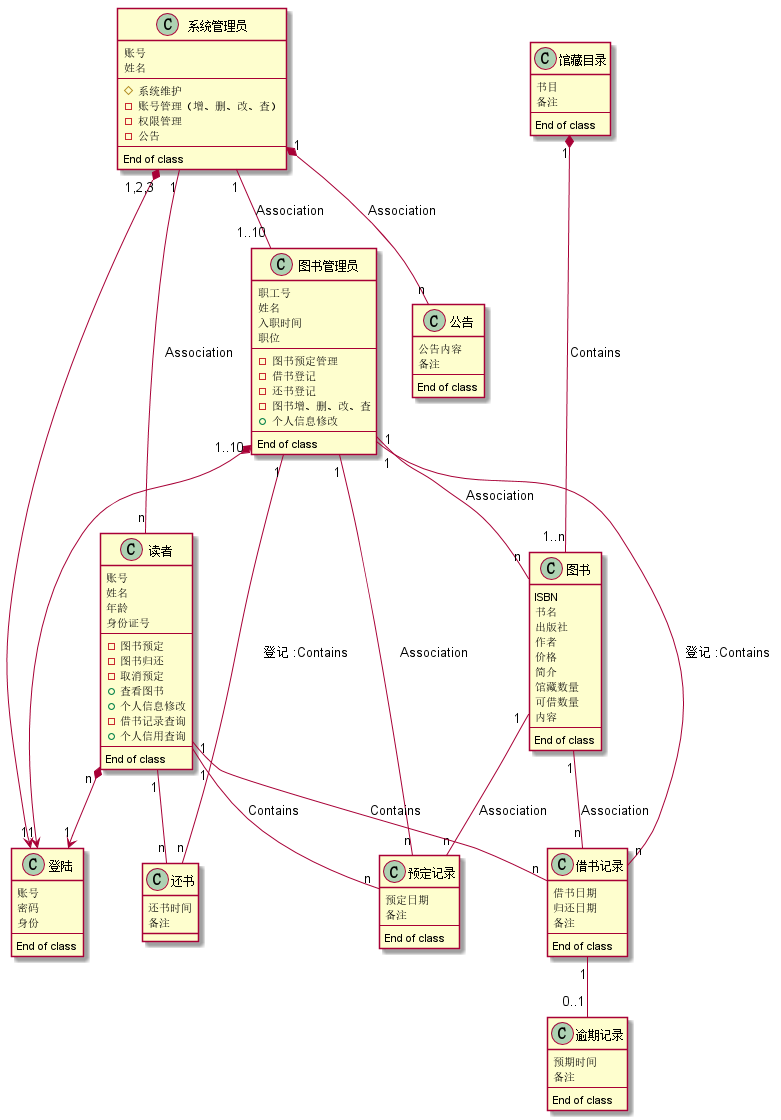
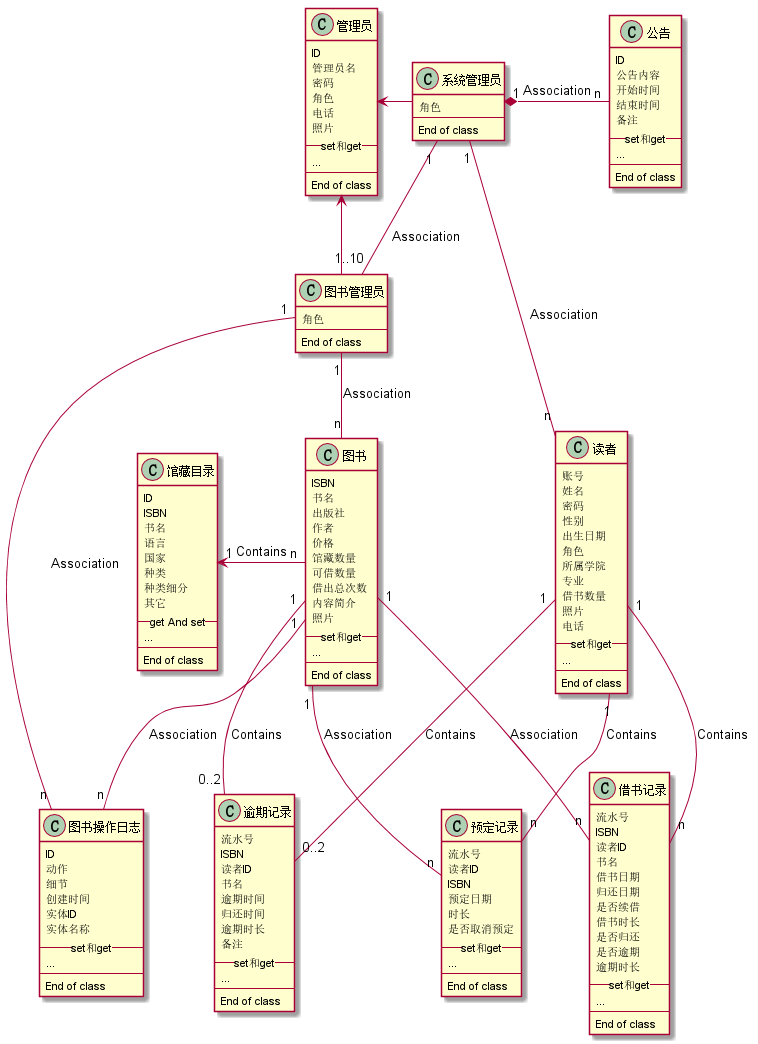
UpdateOfHeng

diff --git a/test3/README.md b/test3/README.md
@@ -9,10 +9,26 @@
 <pre>
 @startuml
 
-class 登陆{
-    账号
+class 管理员 {
+    ID
+    管理员名
     密码
-    身份
+    角色
+    电话
+    照片
+    --set和get--
+    ...
+    --
+    End of class
+}
+
+class 图书管理员 {
+    角色
+    --
+    End of class
+}
+class 系统管理员{
+    角色
     --
     End of class
 }
@@ -20,42 +36,32 @@ class 登陆{
 class 读者 {
     账号
     姓名
-    年龄
-    身份证号
-    --
-    - 图书预定
-    - 图书归还
-    - 取消预定
-    + 查看图书
-    + 个人信息修改
-    - 借书记录查询
-    + 个人信用查询
+    密码
+    性别
+    出生日期
+    角色
+    所属学院
+    专业
+    借书数量
+    照片
+    电话
+    --set和get--
+    ...
     --
     End of class
 }
 
-class 图书管理员 {
-    职工号
-    姓名
-    入职时间
-    职位
-    --
-    - 图书预定管理
-    - 借书登记
-    - 还书登记
-    - 图书增、删、改、查
-    + 个人信息修改
-    --
-    End of class
-}
-class 系统管理员{
-    账号
-    姓名
-    --
-    # 系统维护
-    - 账号管理（增、删、改、查）
-    - 权限管理
-    - 公告
+class 馆藏目录{
+    ID
+    ISBN
+    书名
+    语言
+    国家
+    种类
+    种类细分
+    其它
+    --get And set--
+    ...
     --
     End of class
 }
@@ -65,79 +71,108 @@ class 图书{
     出版社
     作者
     价格
-    简介
     馆藏数量
     可借数量
-    内容
-    --
-    End of class
-}
-
-class 馆藏目录{
-    书目
-    备注
+    借出总次数
+    内容简介
+    照片
+    --set和get--
+    ...
     --
     End of class
 }
 
 class 借书记录{
+    流水号
+    ISBN
+    读者ID
+    书名
     借书日期
     归还日期
-    备注
+    是否续借
+    借书时长
+    是否归还
+    是否逾期
+    逾期时长
+    --set和get--
+    ...
     --
     End of class
 }
 
 class 预定记录{
+    流水号
+    读者ID
+    ISBN
     预定日期
-    备注
+    时长
+    是否取消预定
+    --set和get--
+    ...
     --
     End of class
 }
 
 class 逾期记录{
-    预期时间
+    流水号
+    ISBN
+    读者ID
+    书名
+    逾期时间
+    归还时间
+    逾期时长
     备注
+    --set和get--
+    ...
     --
     End of class
 }
 
-class 还书{
-    还书时间
-    备注
+class 图书操作日志{
+    ID
+    动作
+    细节
+    创建时间
+    实体ID
+    实体名称
+    --set和get--
+    ...
+    --
+    End of class
 }
 
 class 公告{
+    ID
     公告内容
+    开始时间
+    结束时间
     备注
+    --set和get--
+    ...
     --
     End of class
 }
 
-读者 "n"*-->"1"登陆
-图书管理员 "1..10"*---> "1"登陆
-系统管理员 "1,2,3"*--=-> "1"登陆
-
+管理员 <- 系统管理员
+管理员 <- 图书管理员
 
 系统管理员 "1"-- "1..10"图书管理员 :Association
-系统管理员 "1"-- "n"读者 :Association
-系统管理员 "1"*-- "n"公告 :Association
+系统管理员 "1"- "n"读者 :Association
+系统管理员 "1"*- "n"公告 :Association
 
 图书管理员 "1"-- "n"图书 :Association
-图书管理员 "1"-- "n"借书记录 :登记 :Contains
-图书管理员 "1"-- "n"还书 :登记 :Contains
-图书管理员 "1"-- "n"预定记录 :Association
+图书管理员 "1"-- "n"图书操作日志 :Association
 
+馆藏目录 "1"<- "n"图书 :Contains
 
-馆藏目录 "1"*--- "1..n"图书 :Contains
 图书 "1"--  "n"预定记录 :Association
 图书 "1"-- "n"借书记录 :Association
+图书 "1"-- "n" "图书操作日志" :Association
+图书 "1"-- "0..2"逾期记录 :Contains
 
 读者 "1"--"n"预定记录 :Contains
 读者 "1"-- "n"借书记录 :Contains
-读者 "1"-- "n"还书
-
-借书记录 "1"-- "0..1"逾期记录
+读者 "1"-- "0..2"逾期记录 :Contains
 
 @endum
 </pre>
@@ -146,10 +181,7 @@ class 公告{
 ![BookManger](BookManger.png)
 
 ### 1.3 类图说明：
-本类图参考实验二图书管理系统用例，主要包含11个类，登陆、系统管理员、图书管理员、读者、馆藏书目、预定记录、借<br>
-书记录、还书、公告、逾期记录、图书。其中系统管理员类，主要方法有系统维护、账号管理（增删改查）、权限管理、公<br>
-告更新与删除； 图书管理员类，由维护图书用例产生，图书增删改查、图书预定管理、借书登记、还书登记、个人信息修<br>
-改；读者类，由维护读者信息用例产生，被维护读者信息、图书归还、预定图书、查看图书、查询借阅情况、取消预定等。
+本类图参考实验二图书管理系统用例，主要包含9个类，管理员、馆藏目录、读者、预定记录、借书记录、还书、公告、逾期记录、图书。其中系统管理员类，主要方法有系统维护、账号管理（增删改查）、权限管理、公告更新与删除； 图书管理员类，由维护图书用例产生，图书增删改查、图书预定管理、借书登记、还书登记、个人信息修改；读者类，由维护读者信息用例产生，被维护读者信息、图书归还、预定图书、查看图书、查询借阅情况、取消预定等。
 
 ## 2 图书管理系统的对象图
 ### 2.1 图书管理系统类图局部对象图
@@ -285,7 +317,7 @@ object 公告{
  @enduml
 </pre>
 对象图如下：<br>
-![Login](login.png)
+![Login](Login.png)
 
 ### 2.3 类“系统管理员”的对象图如下
 源码如下：
@@ -299,7 +331,7 @@ object 系统管理员{
 @enduml
 </pre>
 对象图如下：<br>
-![admin](admin.png)
+![admin](Admin.png)
 
 ### 2.4 类“图书管理员”的对象图如下
 源码如下：

diff --git a/test5/README.md b/test5/README.md
@@ -11,7 +11,7 @@
 |ID|managerId|int(12)|主键|×|||
 |管理员名|name|varchar(20)||×|||
 |密码|password|varchar(20)||×|||
-|职位|role|bit||×||true：系统管理员，false：图书管理员|
+|职位|role|bit||×||1：系统管理员，0：图书管理员|
 |电话|tel|int(11)||×||联系电话|
 |照片|photo|varbinary(MAX)||√|||
 
@@ -90,6 +90,31 @@
 |实体ID|entityId|int(10)||×||
 |实体名称|entityName|varchar(255)||×||
 
+### 1.8 馆藏书目（BookCollection）表：
+|项目|字段名|类型与宽度|主键、外键|是否允许为空值|约束|说明|
+|:------:|:-------:|:-------:|:-------:|:-------:|:-------:|:-------:|
+|ID|id|int|主键|×||自增1|
+|ISBN|bookName|varchar(20)||×|||
+|书名|bookName|varchar(40)||×|||
+|语言|language|varchar(20)||×||书籍语言|
+|国家|countries|varchar(20)||×|||
+|种类|kinds|varchar(20)||×||图书种类，如小说、文学、艺术等|
+|种类细分|kindsDetail|varchar(40)||×||种类细分，如古典小说、现在小说、武侠小说等|
+|其它|other|varchar(40)||×|||
+
+### 1.9 逾期记录（OverdueRecorder）表：
+|项目|字段名|类型与宽度|主键、外键|是否允许为空值|约束|说明|
+|:------:|:-------:|:-------:|:-------:|:-------:|:-------:|:-------:|
+|ID|id|int|主键|×||自增1|
+|逾期流水号|overdueId|varchar(40)||×||流水号号为：逾期标志+逾期时间+ISBN+读者Id|
+|ISBN|ISBN|varchar(20)|外键|×|Book.ISBN|外键索引|
+|读者Id|readerId|int(12)|外键|×|Reader.readerId|外键索引|
+|书名|bookName|varchar(40)||×|||
+|逾期时间|orderTime|datetime||×|||
+|还书日期|returnTime|datetime||×|||
+|逾期时长|overdueTime|int||×||以天数为单位，默认为0|
+
+
 ## 2.界面设计
 
 ### 2.1 图书借阅界面设计
@@ -122,7 +147,7 @@
                   "sex": "1",
                   "born": "1996-01-17",
                   "college": "信息科学与工程学院",
-                  "spc": "软件工程",
+                  "spc": "软件工程"
                   }
     }
     </pre>

diff --git a/test4/README.md b/test4/README.md
@@ -35,31 +35,22 @@ bm <- bm
 ### 2.1 PlantUML源码
 <pre>
 @startuml
-
 actor 系统管理员 as SM
 participant "：信息记录" as re
 participant "：读者" as read
 participant "：图书管理员" as BM
-participant "： 增加" as save
-participant "：修改" as update
-participant "：删除" as delete
 
 SM <- SM: 1. 验证可操作性（增、删、改、查）
 SM -> re: 2. 读取信息记录
 re <- re: 2.1 验证是否有该信息
 re -> read: 2.2 获取读者信息
-SM -> update: 3. 修改读者信息
-SM <-- update: 返回结果
+SM <-- read: 3. 返回信息
+SM -> SM:4. 修改信息 OR 删除信息
 
 par 【其他类似相同操作】
-SM -> save: 增加读者
-SM -> delete: 删除读者信息
-
-re<- re: 验证是否有改信息
 re -> BM: 获取图书管理员信息
-SM -> update: 修改图书管理员信息
-SM -> save: 增加图书管理员
-SM -> delete: 删除读者信息
+SM <-- BM: 返回信息
+SM -> SM:修改信息 OR 删除信息
 end
 SM -> SM
 @enduml
